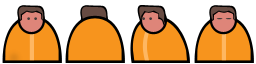
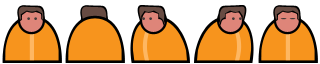
Add Guards into the game: ongoing...

diff --git a/core/src/com/prisonbreak/game/entities/Character.java b/core/src/com/prisonbreak/game/entities/Character.java
@@ -21,10 +21,10 @@ import com.prisonbreak.game.MapControlRenderer;
  */
 public abstract class Character {
     
-    protected static final int FRAME_COLS = 4;
+    protected static final int FRAME_COLS = 5;
     protected static final int FRAME_ROWS = 1;
     
-    protected TextureRegion[] playerFrames;   // 0: down/right , 1: up, 2: left, 3: sleep
+    protected TextureRegion[] characterFrames;   // 0: down , 1: up, 2: left, 3: right, 4: sleep
     protected TextureRegion currentTexture;
     protected Texture sheet;                // contain spritesheet for player
     protected Sprite sprite;
@@ -43,16 +43,7 @@ public abstract class Character {
     public int height;
     public final float velocity = 32.0f * 6;
     
-    public Character() {
-        // initialize direction flags
-        moveLeft = moveRight = moveUp = moveDown = false;
-        
-        // set current direction to "none"
-        currentDirection = "none";
-    }
-    
-    // initialize different images for Character
-    public void initializeImages(String tileSheetName) {
+    public Character(String tileSheetName) {
         // load sheet image
         sheet = new Texture(Gdx.files.internal(tileSheetName));
         
@@ -66,21 +57,27 @@ public abstract class Character {
         TextureRegion[][] tmp = TextureRegion.split(sheet, width, height);
         
         // place all images into a 1D array
-        playerFrames = new TextureRegion[FRAME_COLS * FRAME_ROWS];
+        characterFrames = new TextureRegion[FRAME_COLS * FRAME_ROWS];
         int index = 0;
         for (int i = 0; i < FRAME_ROWS; ++i) {
             for (int j = 0; j < FRAME_COLS; ++j) {
-                playerFrames[index++] = tmp[i][j];
+                characterFrames[index++] = tmp[i][j];
             }
         }
         
         // initialize the current image
-        currentTexture = playerFrames[0];
+        currentTexture = characterFrames[0];
         
         // sprite
         sprite = new Sprite(currentTexture);
         sprite.setX(x);
         sprite.setY(y);
+        
+        // initialize direction flags
+        moveLeft = moveRight = moveUp = moveDown = false;
+        
+        // set current direction to "none"
+        currentDirection = "none";
     }
     
     public Sprite getSprite() {
@@ -97,6 +94,19 @@ public abstract class Character {
     
     public void dispose() {
        sheet.dispose();
+    }
+    
+    // set texture based on current direction
+    public void setTexture() {
+        if (currentDirection.equalsIgnoreCase("down") || currentDirection.equalsIgnoreCase("none")) {
+            currentTexture = characterFrames[0];
+        } else if (currentDirection.equalsIgnoreCase("up")) {
+            currentTexture = characterFrames[1];
+        } else if (currentDirection.equalsIgnoreCase("left")) {
+            currentTexture = characterFrames[2];
+        } else {
+            currentTexture = characterFrames[3];
+        }
     }
     
     public void setLeftMove(boolean t) {
@@ -141,10 +151,10 @@ public abstract class Character {
             if (moveDown) moveDown = false;
 
             sleep = true;
-            currentTexture = playerFrames[3];
+            currentTexture = characterFrames[4];
         } else {
             sleep = false;
-            currentTexture = playerFrames[0];
+            currentTexture = characterFrames[0];
         }
         
         currentDirection = "none";
@@ -250,8 +260,9 @@ public abstract class Character {
  
         // move player along setting direction
         if (moveLeft) {
-            currentTexture = playerFrames[2];
+//            currentTexture = characterFrames[2];
             currentDirection = "left";
+            setTexture();
             x -= amountX;
             
             if (haveCollision(x, y)) {
@@ -260,8 +271,9 @@ public abstract class Character {
             }
         }
         if (moveRight) {
-            currentTexture = playerFrames[0];
+//            currentTexture = characterFrames[3];
             currentDirection = "right";
+            setTexture();
             x += amountX;
             
             if (haveCollision(x, y)) {
@@ -270,8 +282,9 @@ public abstract class Character {
             }
         }
         if (moveUp) {
-            currentTexture = playerFrames[1];
+//            currentTexture = characterFrames[1];
             currentDirection = "up";
+            setTexture();
             y += amountY;
             
             if (haveCollision(x, y)) {
@@ -280,8 +293,9 @@ public abstract class Character {
             }
         }
         if (moveDown) {
-            currentTexture = playerFrames[0];
+//            currentTexture = characterFrames[0];
             currentDirection = "down";
+            setTexture();
             y -= amountY;
             
             if (haveCollision(x, y)) {
@@ -299,6 +313,7 @@ public abstract class Character {
 //        Gdx.app.log("Player:", x + " " + y + " " + (x + width) + " " + (y + height));
     }
     
+    // update position + corresponding image for the Character
     public abstract void update();
     
 }

diff --git a/core/src/com/prisonbreak/game/entities/Guard.java b/core/src/com/prisonbreak/game/entities/Guard.java
@@ -14,15 +14,17 @@ import com.badlogic.gdx.utils.Array;
  */
 public abstract class Guard extends Character {
     
+    private final int guardID;
     private Array<Rectangle> detectAreas;       // arrays holding detection areas for 4 directions
                                                 //      1 -> up , 2 -> down, 3 -> left, 4 -> right
                                                 // if Player steps in the current detection area -> GAME OVER
     private final int scale = 3;    // scale of the detection area compare to Character's image
     
-    public Guard() {
-        super();
+    public Guard(String tileSheetName, int id) {
+        super(tileSheetName);
         
-        initializeImages("guard.png");
+        // set ID
+        guardID = id;
         
         // initialize detection areas of the current guard (3 times the size of Character's image)
         detectAreas = new Array<Rectangle>();
@@ -30,6 +32,10 @@ public abstract class Guard extends Character {
         detectAreas.add(new Rectangle(x, y - height * scale, width, height * scale));   // down
         detectAreas.add(new Rectangle(x - width * scale, y, width * scale, height));    // left
         detectAreas.add(new Rectangle(x + width, y, width * scale, height));            // right
+    }
+    
+    public int getGuardID() {
+        return guardID;
     }
     
     // return the current detection area, based on the direction the Guard is facing
@@ -46,6 +52,73 @@ public abstract class Guard extends Character {
             // default: "none" direction -> return the "down" one
             return detectAreas.get(1);
         }
+    }
+    
+    // perform detection - looking for "prisoner" (Player)
+    // return true if Player steps in the detection area > 50%
+    //        false otherwise
+    public boolean detectPlayer() {
+        Rectangle playerBounding = renderer.getPlayer().getSprite().getBoundingRectangle();
+        Rectangle detectionArea = getDetectArea(currentDirection);
+        
+        // if Player steps in detection area
+        if (playerBounding.overlaps(detectionArea)) {
+            float percent = 0.5f;
+            
+            // four bounding points of playerBounding
+            float xmin = playerBounding.getX();
+            float ymin = playerBounding.getY();
+            float xmax = xmin + playerBounding.getWidth();
+            float ymax = ymin + playerBounding.getHeight();
+            float width = xmax - xmin;      // width of Player
+            float height = ymax - ymin;     // height of Player
+
+            // four bounding points of detectionArea
+            float xMin = detectionArea.getX();
+            float yMin = detectionArea.getY();
+            float xMax = xMin + detectionArea.getWidth();
+            float yMax = ymin + detectionArea.getHeight();
+            
+            // Guard is facing up direction
+            if (currentDirection.equalsIgnoreCase("up")) {
+                float deltaLeft = Math.abs(xMax - xmin);    // "left" side of Player in the area
+                float deltaRight = Math.abs(xmax - xMin);   // "right" side
+                float deltaDown = Math.abs(yMax - ymin);    // "down" side
+                
+                return (deltaLeft >= percent * width) || (deltaRight >= percent * width) ||
+                        (deltaDown >= percent * height);
+            }
+            // Guard is facing down direction (or, "none")
+            else if (currentDirection.equalsIgnoreCase("down") ||
+                    currentDirection.equalsIgnoreCase("none")) {
+                float deltaLeft = Math.abs(xMax - xmin);    // "left" side of Player in the area
+                float deltaRight = Math.abs(xmax - xMin);   // "right" side
+                float deltaUp = Math.abs(ymax - yMin);      // "up" side
+                
+                return (deltaLeft >= percent * width) || (deltaRight >= percent * width) ||
+                        (deltaUp >= percent * height);
+            }
+            // Guard is facing left direction
+            else if (currentDirection.equalsIgnoreCase("left")) {
+                float deltaRight = Math.abs(xmax - xMin);   // "right" side
+                float deltaUp = Math.abs(ymax - yMin);      // "up" side
+                float deltaDown = Math.abs(yMax - ymin);    // "down" side
+                
+                return (deltaRight >= percent * width) || (deltaUp >= percent * height) ||
+                        (deltaDown >= percent * height);
+            }
+            // Guard is facing right direction
+            else if (currentDirection.equalsIgnoreCase("right")) {
+                float deltaLeft = Math.abs(xMax - xmin);    // "left" side
+                float deltaUp = Math.abs(ymax - yMin);      // "up" side
+                float deltaDown = Math.abs(yMax - ymin);    // "down" side
+                
+                return (deltaLeft >= percent * width) || (deltaUp >= percent * height) ||
+                        (deltaDown >= percent * height);
+            }
+        }
+        
+        return false;
     }
     
 }

diff --git a/core/src/com/prisonbreak/game/entities/StationGuard.java b/core/src/com/prisonbreak/game/entities/StationGuard.java
@@ -1,0 +1,59 @@
+/*
+ * To change this license header, choose License Headers in Project Properties.
+ * To change this template file, choose Tools | Templates
+ * and open the template in the editor.
+ */
+package com.prisonbreak.game.entities;
+
+/**
+ *
+ * @author krankai
+ */
+public class StationGuard extends Guard {
+    
+    public StationGuard(String tileSheetName, int id, String direction) {
+        super(tileSheetName, id);
+        
+        // set (fixed) direction
+        currentDirection = direction;
+        
+        // set (fixed) texture; based on current direction
+        setTexture();
+    }
+    
+    @Override
+    public void setLeftMove(boolean t) {
+        
+    }
+    
+    @Override
+    public void setRightMove(boolean t) {
+        
+    }
+    
+    @Override
+    public void setDownMove(boolean t) {
+        
+    }
+    
+    @Override
+    public void setUpMove(boolean t) {
+        
+    }
+    
+    @Override
+    public void sleepWakeup() {
+        
+    }
+    
+    @Override
+    public void updateMotion() {
+        
+    }
+    
+    @Override
+    public void update() {
+        
+    }
+    
+}

diff --git a/core/src/com/prisonbreak/game/entities/Player.java b/core/src/com/prisonbreak/game/entities/Player.java
@@ -17,9 +17,7 @@ public class Player extends Character {
     private Array<Item> inventory;
     
     public Player() {
-        super();
-        
-        initializeImages("prisoner.png");
+        super("prisoner.png");
         
         // initialize Player's inventory
         inventory = new Array<Item>();
